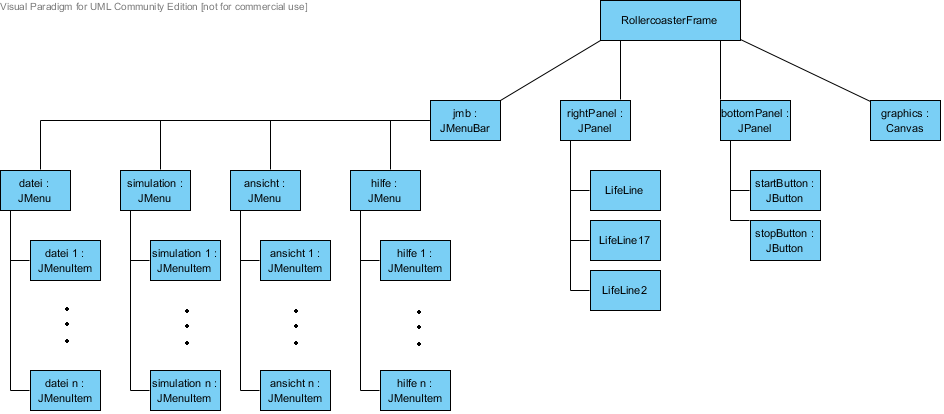
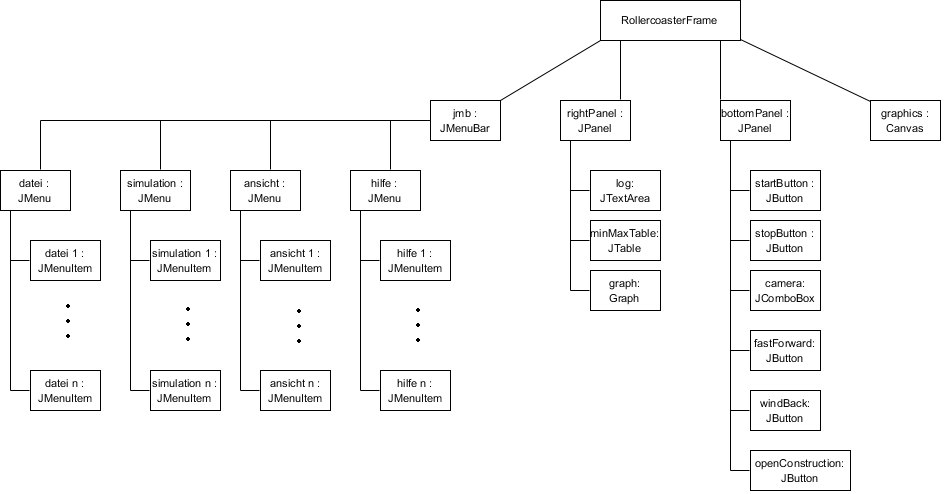
GUI Diagramme aktualisiert

diff --git a/documents/feinentwurf/LaTex/inhalt/implementierungsentwurf.tex b/documents/feinentwurf/LaTex/inhalt/implementierungsentwurf.tex
@@ -96,7 +96,7 @@ Abbildung \ref{fig:guiObjects} das Objektdiagramm.
 
 \subsection{Erläuterung}
 
-Der RollercoasterFrame unterteilt sich in 4 Bereiche. In dem Menü jmb gibt es Zugriff auf alle umgesetzten Funktionen in 4 Kategorien (Datei, Ansicht, Simulation und Hilfe). Im rightPanel sind die wichtigen Informationen angeordnet (Graph, Extrema, Log). Im bottomPanel sind Schnellzugriffsfunktionen für Öffnen von Konstruktionen, Starten und Stoppen von Simulation, Zeitrafferfunktionen und Ändern der Kameraperspektive angesiedelt. Die eigentliche Simulation wird im graphics-Canvas dargestellt.
+Der RollercoasterFrame unterteilt sich in 4 Bereiche. In dem Menü jmb gibt es Zugriff auf alle umgesetzten Funktionen in 4 Kategorien (Datei, Ansicht, Simulation und Hilfe). Im rightPanel sind die wichtigen Informationen angeordnet (Graph, Extrema, Log). Im bottomPanel sind Schnellzugriffsfunktionen zum Öffnen von Konstruktionen, Starten und Stoppen von Simulation, Zeitrafferfunktionen und Ändern der Kameraperspektive angesiedelt. Die eigentliche Simulation wird im graphics-Canvas dargestellt.
 
 Neben den Objekten, die im Objektdiagramm dargestellt sind und deshalb übersichtshalber nicht noch einmal im Klassendiagramm aufgeführt werden, hat der RollercoasterFrame nicht viele Funktionen. Für das Öffnen der Konstruktionen wird ein FileChooser benötigt. Im Konstruktor werden alle anzuzeigenden Objekte erzeugt. Die Klasse ButtonListener implementiert einen ActionListener und ist für die Steuerung sämtlicher Buttons verantwortlich. Der MenuListener übernimmt die Steuerung des Menüs. Ein ResizeListener passt Komponentengrößen beim Ändern der Fenstergrößen an.
 Der Graph wird direkt in der paintComponent-Methode gezeichnet. Das Attribut stepDistance gibt an, wieviele Pixel ein Zeitschritt sind. In dem Vektor curves werden die Daten zu den darzustellenden Kurven bereitgehalten (z.B. für Beschleunigung und Geschwindigkeit). Eine Kurve besteht aus einem Namen, einer Farbe der Kurve, der Wertebereich (yMax, yMin), und natürlich den Punkten, aus denen die Kurve aufgebaut ist, als TreeMap. Zum Hinzufügen von Kurven und Punkten in die Kurven stehen entsprechende Methoden zur Verfügung.
